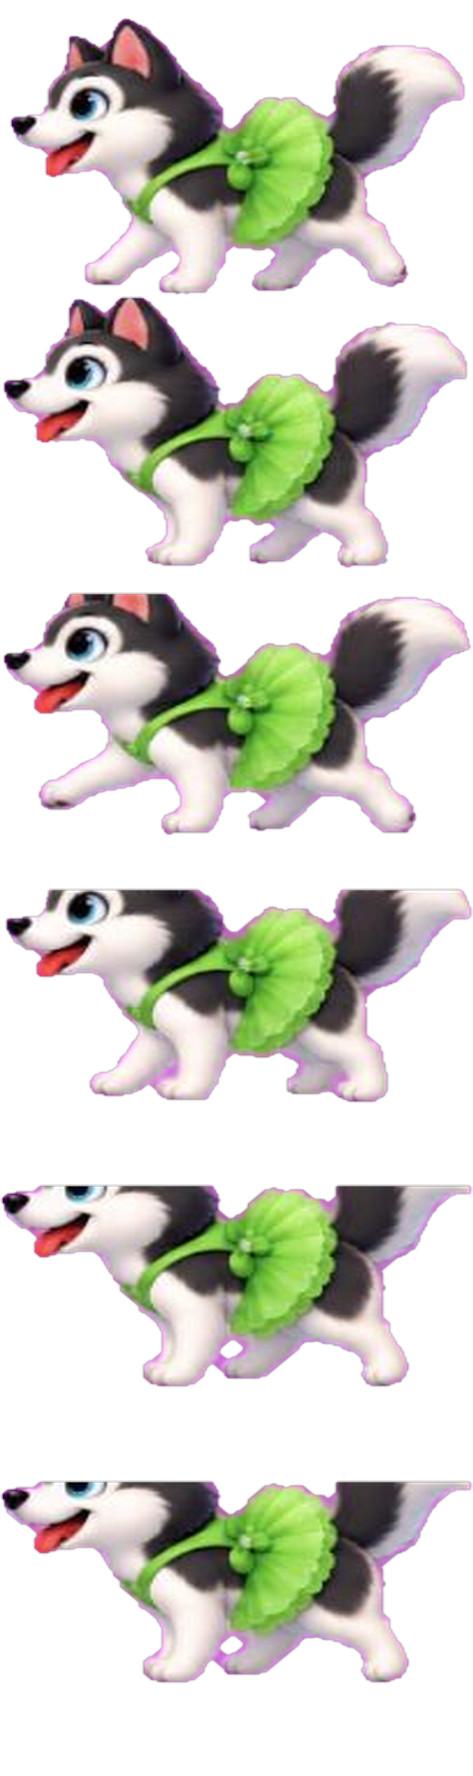
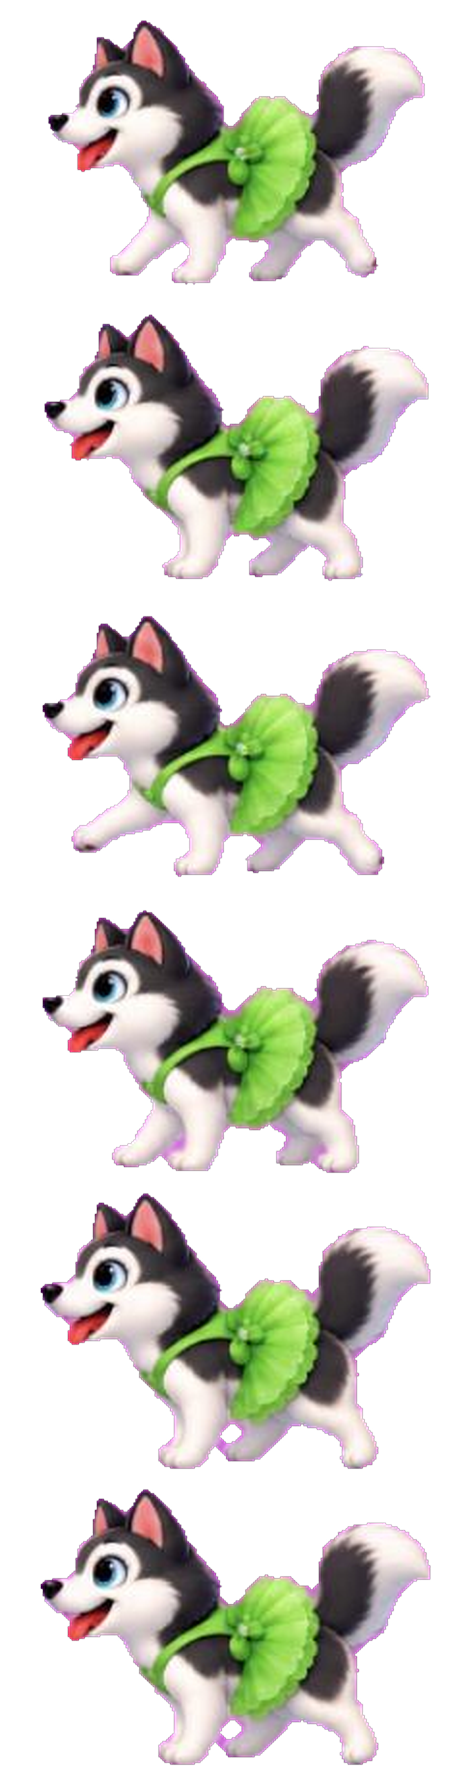
Fix dog tutu animation drift, live outfit-equip update, and pedestal size
- Re-extract the 4 tutu sprite sheets using whole-column connected-component
  detection instead of rigid row-slicing, which fixes a real vertical drift
  (the dog visibly climbing/rising across its 6-frame walk cycle) caused by
  poses not being evenly positioned within their nominal grid cells.
- Equipping/unequipping an outfit from the store now updates the live
  in-game sprite immediately instead of only taking effect after a reload
  (openStoreModal gained an onOutfitChange callback; applyEquippedOutfit no
  longer skips reverting the sprite on unequip).
- Bump storeModal.js/GameScreen.js's own ?v= cache-busters, since editing
  them without bumping left the browser running a stale cached module.
- Grow the dressing-room pedestal character ~50% per direct request.

diff --git a/js/classes/screens/GameScreen.js b/js/classes/screens/GameScreen.js
@@ -29,7 +29,7 @@ import {
 } from '../../utils/canvasShapes.js';
 import { setActionButtonsMode } from '../../utils/touchControls.js';
 import { isLoggedIn, getWallets, getStore, getEquipped, submitRound } from '../../utils/api.js';
-import { openStoreModal } from '../../utils/storeModal.js?v=2';
+import { openStoreModal } from '../../utils/storeModal.js?v=5';
 import { getSpriteSrc } from '../../utils/outfits.js';
 
 // ==============================
@@ -1662,18 +1662,24 @@ export default class GameScreen {
   // Records `outfitItem` (a StoreItem, or null/undefined for "no cosmetic
   // equipped, default look") as `character`'s current pick, then - if that
   // character's entity already exists - swaps its live spriteSheet.src
-  // right away via getSpriteSrc() (js/utils/outfits.js). Called from two
-  // places: once per character as each of init()'s getEquipped() fetches
-  // resolves (covers the skipCutscenes path, where resetGameObjects()
-  // never runs a second time), and again from inside resetGameObjects()
-  // itself every time it (re)constructs the three entities (covers the
-  // normal path, where cutscenes finishing calls resetGameObjects() a
-  // second time - see its own comment - which would otherwise reconstruct
-  // Cat/Mouse/Dog at their plain default look and silently discard
-  // whatever a fetch had already applied to the now-replaced instance).
+  // right away via getSpriteSrc() (js/utils/outfits.js), which falls back
+  // to that character's default look when outfitItem is null - unequipping
+  // needs the live sprite to revert just as much as equipping needs it to
+  // change, so this always reassigns rather than early-returning on a
+  // falsy outfitItem. Called from three places: once per character as each
+  // of init()'s getEquipped() fetches resolves (covers the skipCutscenes
+  // path, where resetGameObjects() never runs a second time), again from
+  // inside resetGameObjects() itself every time it (re)constructs the
+  // three entities (covers the normal path, where cutscenes finishing
+  // calls resetGameObjects() a second time - see its own comment - which
+  // would otherwise reconstruct Cat/Mouse/Dog at their plain default look
+  // and silently discard whatever a fetch had already applied to the
+  // now-replaced instance), and from openStore()'s onOutfitChange callback
+  // whenever an equip/unequip happens while already in a round (without
+  // this, the store's own DB state changed but the on-screen character
+  // stayed stale until the next reload re-ran getEquipped()).
   applyEquippedOutfit(character, outfitItem) {
     this.equippedOutfits[character] = outfitItem || null;
-    if (!outfitItem) return;
     const entity = character === 'cat' ? this.cat : character === 'mouse' ? this.mouse : this.dog;
     if (entity) entity.spriteSheet.src = getSpriteSrc(character, outfitItem);
   }
@@ -3324,9 +3330,14 @@ export default class GameScreen {
   // the HUD without a redundant re-fetch.
   openStore() {
     if (!this.wallet) return;
-    openStoreModal(this.controlledEntity, this.wallet, (updatedWallet) => {
-      this.wallet = updatedWallet;
-    });
+    openStoreModal(
+      this.controlledEntity,
+      this.wallet,
+      (updatedWallet) => {
+        this.wallet = updatedWallet;
+      },
+      (character, outfitItem) => this.applyEquippedOutfit(character, outfitItem)
+    );
   }
 
   // Shared geometry for the HUD box (top-center, wide) and its

diff --git a/js/utils/storeModal.js b/js/utils/storeModal.js
@@ -8,6 +8,14 @@ import { getUIScale } from './scale.js?v=1';
 // callback shape loginModal.js uses for its own success callback.
 let onWalletUpdateCallback = null;
 
+// Called with (character, outfitItem|null) whenever an equip/unequip
+// actually succeeds, so GameScreen can swap the live in-game sprite right
+// away (GameScreen.applyEquippedOutfit) instead of only picking up the
+// new look on next reload - equipping used to only update this modal's
+// own pedestal/DB state, leaving the actual on-screen character stale
+// until a refresh re-ran init()'s getEquipped() fetch.
+let onOutfitChangeCallback = null;
+
 // Which item's slug is currently shown on the dressing-room pedestal -
 // module-level so it survives a local re-render (arrow click, row click,
 // a purchase/equip) without needing a fresh network fetch every time.
@@ -52,7 +60,10 @@ function applyModalSizing() {
   card.style.height = `${Math.max(340, canvas.height - margin * 2)}px`;
 
   const sceneRect = scene.getBoundingClientRect();
-  const size = Math.max(80, Math.min(sceneRect.height * 0.62, sceneRect.width * 0.42));
+  // 0.93/0.63 (was 0.62/0.42) - character requested ~50% bigger on the
+  // pedestal, confirmed live against the dressing-room backdrop's own
+  // proportions so the character doesn't overrun the mirror frame.
+  const size = Math.max(80, Math.min(sceneRect.height * 0.93, sceneRect.width * 0.63));
   pedestalCanvas.style.width = `${size}px`;
   pedestalCanvas.style.height = `${size}px`;
 }
@@ -71,6 +82,7 @@ export function setupStoreModal() {
     window.removeEventListener('orientationchange', applyModalSizing);
     document.dispatchEvent(new CustomEvent('storemodaltoggle', { detail: { open: false } }));
     onWalletUpdateCallback = null;
+    onOutfitChangeCallback = null;
   };
 
   closeBtn.addEventListener('click', close);
@@ -172,8 +184,10 @@ function updateActionButton(character, wallet, item) {
       try {
         if (item.equipped) {
           await unequipItem(character, item.slot);
+          if (onOutfitChangeCallback) onOutfitChangeCallback(character, null);
         } else {
           await equipItem(character, item.slug);
+          if (onOutfitChangeCallback) onOutfitChangeCallback(character, item);
         }
         await refreshAfterChange();
       } catch (err) {
@@ -357,10 +371,14 @@ function refreshAfterChange() {
 // used as the modal's starting state so it doesn't need its own fetch
 // before first paint. onWalletUpdate: called with the fresh wallet after
 // any purchase, so the caller's own wallet display stays in sync.
-export function openStoreModal(character, wallet, onWalletUpdate) {
+// onOutfitChange: called with (character, outfitItem|null) after a
+// successful equip/unequip, so the caller can update the live in-game
+// sprite immediately (see onOutfitChangeCallback's own comment above).
+export function openStoreModal(character, wallet, onWalletUpdate, onOutfitChange) {
   const modal = document.getElementById('storeModal');
   if (!modal) return;
   onWalletUpdateCallback = onWalletUpdate;
+  onOutfitChangeCallback = onOutfitChange;
   // A fresh open shouldn't remember what a *previous* character's store
   // session had on the pedestal - renderItems() below re-derives a real
   // default (the equipped look, or the first perk) for whichever

diff --git a/js/main.js b/js/main.js
@@ -5,7 +5,7 @@ import { setupTouchControls, MIN_TOUCH_CONTROL_GUTTER } from './utils/touchContr
 import { setupSettingsMenu, MIN_DESKTOP_SETTINGS_GUTTER } from './utils/settingsMenu.js';
 import { setupHomeScreenHint } from './utils/homeScreenHint.js';
 import { setupLoginModal } from './utils/loginModal.js';
-import { setupStoreModal } from './utils/storeModal.js?v=2';
+import { setupStoreModal } from './utils/storeModal.js?v=5';
 import { isTouch } from './utils/scale.js?v=1';
 
 let gameCanvas, ctx, screenManager;

diff --git a/js/classes/screens/CharacterSelectScreen.js b/js/classes/screens/CharacterSelectScreen.js
@@ -1,4 +1,4 @@
-import GameScreen from './GameScreen.js?v=23';
+import GameScreen from './GameScreen.js?v=26';
 import { CHARACTER_NAMES } from '../../utils/characterNames.js';
 import { getUIScale } from '../../utils/scale.js?v=1';
 import {

diff --git a/CLAUDE.md b/CLAUDE.md
@@ -260,6 +260,14 @@ Only the *controlled* character's perks are fetched/checked — no separate endp
 
 Each color's 5 extracted frames were resized to `dog_v2.png`'s native 473×296 per-frame geometry and assembled into a single-column sheet, matching every existing consumer's slicing assumptions with zero code changes. **`Dog.js`'s `this.rows = 6` is a hardcoded constant, not derived from the sprite sheet's actual height** — the generation only produced 5 poses per color (not the requested 6), so the 6th row is the 5th frame duplicated, landing back on that pose right as the cycle wraps to frame 0 for a clean loop rather than a visible jump. `assets/dog_v2_tutu_{pink,teal,orange,green}.png` are the new files; `seed_store`'s `DOG_OUTFIT_ITEMS` now points each of those 4 colors' `sprite_src` at its real file with `is_active=True`, leaving purple as the one still-inactive placeholder.
 
+**First extraction pass shipped a real vertical-drift bug, caught live** ("the dog appears to rise or move up out of frame"): the initial pipeline sliced the captured column into 5 *equal-height row bands* before running chroma-key/cleanup per band, assuming the 5 poses were evenly and identically positioned within their nominal grid cells. They weren't — per-frame feet position measured at y=152, 139, 123, 112, 106 across frames 0→4, a genuine ~15px/frame climb baked into the source generation (not a bounce), and rows 1-4 were already clipped at the top (`ytop=1`, touching the crop boundary) before any processing even began, so bottom-anchoring alone still left ears cut off. **Fix: skip row-slicing entirely** — run chroma-key + connected-component labeling on the *whole column* at once, take the 5 largest components, sort by vertical center to recover frame order, then crop each to its own true bbox and bottom-anchor those onto a shared canvas. This avoids the rigid-grid assumption altogether and was the only approach that produced full, undrifted frames — worth remembering for any future sprite sheet extracted from an AI-generated grid: **don't assume poses are pre-aligned to equal grid cells; find each pose's own bounding box from the full uncropped source instead.**
+
+**A second real bug, also only caught by actually testing in the browser**: equipping a new outfit from the store updated the DB and the store's own pedestal preview, but the *in-game* character sprite stayed on its old look until the next page reload — `GameScreen.openStore()`'s callback to `openStoreModal()` only synced `this.wallet`, never the equipped-outfit state, so there was no path from "equip button clicked" back to `applyEquippedOutfit()`. Fixed by adding a second callback (`onOutfitChangeCallback` in `storeModal.js`, threaded through `openStoreModal(character, wallet, onWalletUpdate, onOutfitChange)`) fired after a successful equip/unequip, wired in `GameScreen.openStore()` to call `this.applyEquippedOutfit(character, outfitItem)` directly. This also surfaced a real one-line bug in `applyEquippedOutfit()` itself: it early-returned on a falsy `outfitItem` *before* reassigning the entity's sprite, meaning unequip (reverting to default) never actually reverted the live sprite even though the DB state was correct — fixed by always reassigning (`getSpriteSrc()` already resolves `null` to the default look on its own).
+
+**Diagnosing that second bug wasted a real round of debugging on a stale module cache, not a logic error** — the fix code was correct on disk from the first edit, but `storeModal.js`'s own `?v=` cache-buster (imported from both `main.js` and `GameScreen.js`) wasn't bumped when it was edited, so the browser kept running the old module. Bumping the query string and reloading *still* showed the old behavior, because `index.html`'s `<script src="./js/main.js">` tag is deliberately unversioned (see Module-level cache-busting above) — a plain top-level navigation let Chrome serve `main.js` itself from HTTP cache, which still pointed at the stale versioned URL. A hard reload (cache-bypass, not just re-navigating to the same URL) was what actually picked up the fix. **General lesson: a plain page reload is not sufficient to verify a fix to any *unversioned* entry-point file (`main.js` per this project's own convention) — use a cache-bypassing hard reload, since query-string cache-busting on the file that got edited doesn't help if the file importing it is itself served stale.** Console log messages showing the executing script's own URL (e.g. `storeModal.js?v=2` when the source said `?v=4`) is the tell.
+
+**A third, smaller fix from the same live-testing round**: the dressing-room pedestal character was sized well under the backdrop's own proportions — `applyModalSizing()`'s `size = min(sceneRect.height * 0.62, sceneRect.width * 0.42)` was bumped to `0.93`/`0.63` (~50% bigger) per direct request, confirmed live against the backdrop so the character doesn't overrun the mirror frame.
+
 ## Mobile responsiveness (`js/utils/scale.js`, `orientationGate.js`, `touchControls.js`)
 Milestone-scope mobile support: the game requires landscape (a full-screen gate blocks portrait) rather than reworking layout for both orientations, but *within* landscape it scales correctly at any canvas size — every size in the game (furniture scale, wall thickness, character size/speed, floor tile size, UI chrome) used to be a fixed pixel value tuned against a desktop-sized canvas, which broke badly on a narrow mobile canvas (a single stove alone ate ~40% of board height on a 350px-wide canvas).
 
@@ -311,6 +319,7 @@ The LED is a live mouse-escape-danger meter. `GameScreen.updateEscapeDangerIndic
 - **White box on initial load (fixed) — root cause was a script/stylesheet ordering rule, not just the canvas's own CSS.** Two things compounded: (1) `<canvas class="bg-white">` showed a stark white box against the dark body background for anything left unpainted; (2) `<script type="module">` doesn't execute until every preceding stylesheet finishes loading, and Tailwind's CDN `<link>` was a 2.9MB uncompressed stylesheet — slow enough on mobile to stall the entire game boot. Fixed with `async` on the script tag (which doesn't wait for stylesheets, unlike plain `type="module"`) and dropping `bg-white` from the canvas. `async` also meant `main.js`'s top-level `document.getElementById('gameCanvas')` could theoretically run before `<body>` exists, so `main.js` now wraps init in a `document.readyState` check rather than assuming parse order.
 
 ## Planned work
+- **Intro cutscene doesn't reflect the equipped outfit — noticed live, not yet fixed.** `GameScreen.startCutscenes()` constructs its own throwaway `Cat`/`Mouse`/`Dog` instances (`this.cutsceneCat`/`cutsceneMouse`/`cutsceneDog`) purely for the cutscene preview, entirely separate from `this.cat`/`this.mouse`/`this.dog` — so a cutscene always shows each character's plain default look regardless of what's actually equipped (confirmed live: Dummy's "meet the dog" cutscene showed the default purple-tutu `dog_v2.png` even with a teal tutu equipped and showing correctly everywhere else — Character Select, in-game, the store pedestal). Fix direction: either pass `equippedOutfits` into `startCutscenes()` and set each preview entity's `spriteSheet.src` via `getSpriteSrc()` before constructing the `Cutscene`, or fetch it the same way `GameScreen.init()` already does per-character.
 - **Backend outage currently blocks the game entirely — needs graceful degradation.** `SetupScreen.js`'s "Play Now" click handler awaits `kathrynQuickLogin()` (`js/utils/api.js`) and only calls `proceedToCharacterSelect()` on success; if `kpground-api` isn't reachable (confirmed live: a "Failed to fetch" network error), the player is stuck on the title screen and can never reach character select or gameplay at all. This is backwards from every other economy touchpoint in this game — `GameScreen`'s own wallet fetch, HUD, and store button all already degrade to "just don't show economy UI" when logged out or the API is unreachable (see Currency & economy system above), and the title screen should follow the same pattern: the API being down should never be fatal to the front end. Fix direction: let `kathrynQuickLogin()` failing still proceed to character select/gameplay (economy features simply staying hidden, same as any other logged-out session), rather than hard-blocking on it.
 - **"Dummy caught Mia!" dog-pauses-cat moment — shipped**, see "Dog-pauses-cat stun moment" above.
 - **Mouse redesign — shipped**, see `mouse_v2.png` under `Mouse.js` above. Turned out simpler than originally planned: kept v1's exact 3x4 grid rather than the dog's single-column approach, since live feedback during generation explicitly rejected that as too different from the original. The bipedal-vs-quadruped pitfall (see above) is worth remembering for any future character redesign in this style.
